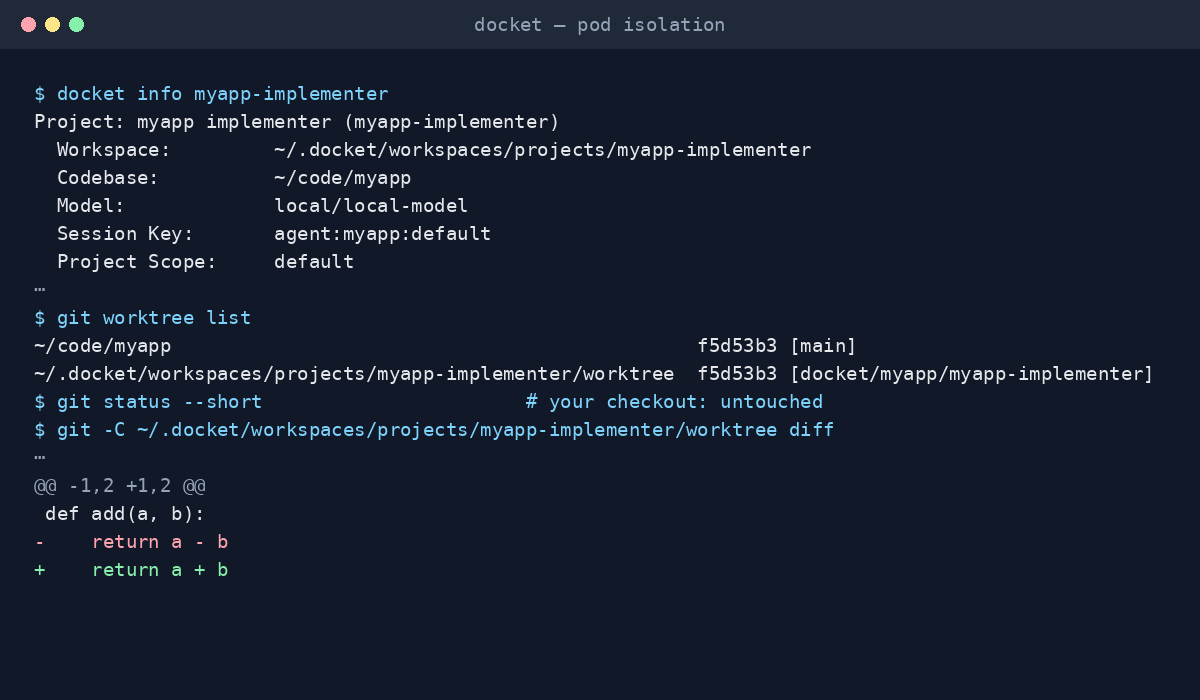
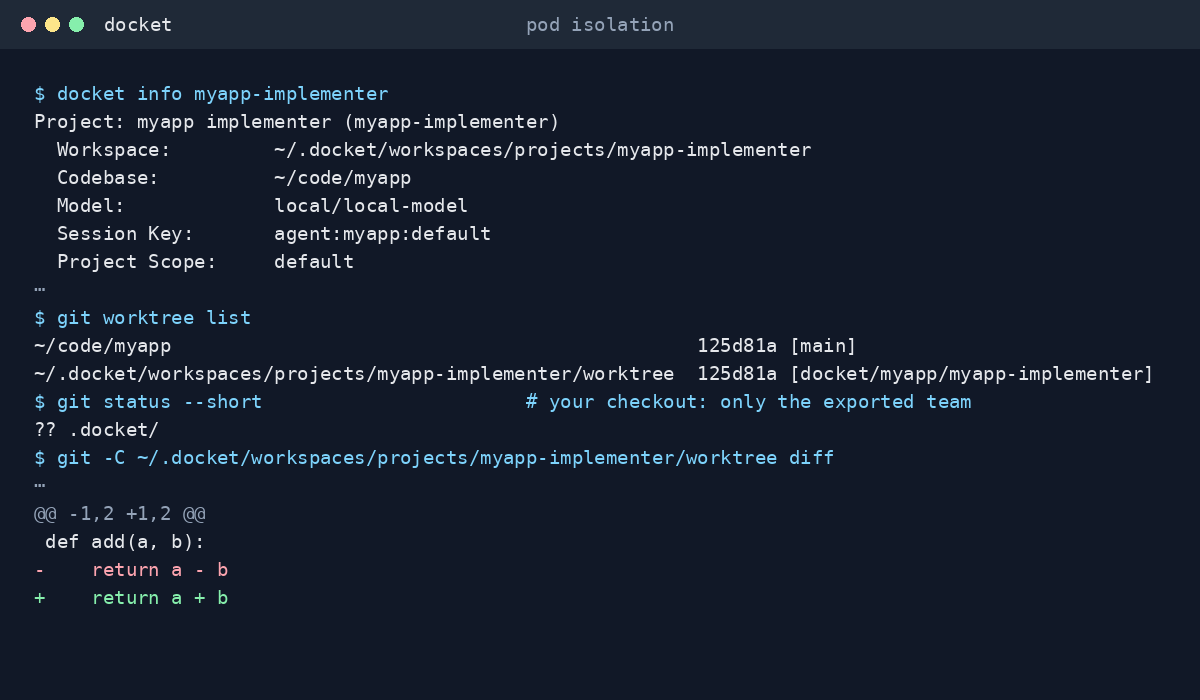
Docs: assets re-captured from one real run; the hero shows the team from the repo
scripts/maint/capture-doc-journey.sh gains the Phase 30 scenes: 1-team
(docket init --recipe secure-build, pod export, find .docket, validate,
pipeline plan, set-verify), 2-dispatch, 3-isolation, 4-gate, 5-record
(config explain, audit verify), 6-harness (captured, not rendered). The
run against the local llama.cpp endpoint on 2026-09-27 reached done in
3 hops with the vetter's APPROVE, denied the production push on
timeout, and verified 8 chained audit lines.

scripts/render-doc-assets.py transcribes that run: hero.gif is four
frames (the team you define; validate, plan, queue; the run; the
record), each titled, under a docket wordmark drawn in every title bar;
isolation.png and governance.png come from the same run. Path prefixes
outside the capture root are elided with the same mark as elided lines.
docs/assets/README.md records the capture. render-doc-assets.py --check
passes on the regenerated files.

diff --git a/scripts/render-doc-assets.py b/scripts/render-doc-assets.py
@@ -22,6 +22,7 @@ ASSET_DIR = ROOT / "docs" / "assets"
 OUTPUTS = ("hero.gif", "isolation.png", "governance.png")
 FONT_PATH = ASSET_DIR / "DejaVuSansMono.ttf"
 CONTRACT_KEY = "docket-render-contract"
+WORDMARK = "docket"
 
 WIDTH = 1200
 HEIGHT = 700
@@ -113,6 +114,8 @@ def _terminal(title: str, lines: list[str], *, height: int = HEIGHT) -> Image.Im
     draw.rectangle((0, 0, WIDTH, TITLE_HEIGHT), fill=TITLEBAR)
     for x, color in ((28, RED), (52, YELLOW), (76, GREEN)):
         draw.ellipse((x - 7, 17, x + 7, 31), fill=color)
+    # The wordmark sits left of the traffic lights' gap; the scene title stays centred.
+    draw.text((104, 13), WORDMARK, font=REGULAR, fill=TEXT)
     title_width = draw.textlength(title, font=REGULAR)
     draw.text(((WIDTH - title_width) / 2, 13), title, font=REGULAR, fill=MUTED)
 
@@ -126,48 +129,94 @@ def _terminal(title: str, lines: list[str], *, height: int = HEIGHT) -> Image.Im
 # Every scene below is a verbatim transcript of one real run of
 # scripts/maint/capture-doc-journey.sh; docs/assets/README.md records which run. Only
 # three edits are allowed when refreshing it: the capture root becomes "~", "⋯" marks elided
-# lines, and a trailing "# ..." on a "$" line is a reader's note, never captured output.
-_INIT = [
+# lines or path prefixes, and a trailing "# ..." on a "$" line is a reader's note, never
+# captured output.
+_TEAM = [
     "$ docket models preset local",
-    "⋯",
-    "✓ Preset 'local' applied.",
-    "⋯",
-    "✓ Registered local endpoint selected; no API key needed.",
-    "$ docket init",
-    "⋯",
-    "✓ Tool-call gate: always active (policy engine + high-risk command classifier)",
-    "✓ Installed 6 baseline policies",
+    "$ docket init --recipe secure-build",
     "⋯",
     "→ Provisioning 'software' pod 'myapp' (lead, implementer)...",
     "✓   myapp-lead  [lead]  local/local-model",
     "✓   myapp-implementer  [implementer]  local/local-model",
-    "$ docket pod myapp add reviewer",
-    "✓ Added myapp-reviewer [reviewer] local/local-model",
+    "Apply plan — myapp <- ⋯/templates/recipes/secure-build",
+    "  [add] role: security-vetter",
+    "  [add] policy: require-approval-secret-writes.yaml",
+    "  [add] member: security-vetter",
+    "  [add] pipeline: pipeline.yaml",
+    "✓ Applied 4 change(s) to pod 'myapp' from ⋯/templates/recipes/secure-build.",
+    "$ docket pod myapp export                  # the team, written back next to the code",
+    "✓ Exported pod 'myapp' to ~/code/myapp/.docket.",
+    "$ find .docket -type f | sort",
+    ".docket/pipeline.yaml",
+    ".docket/pod.yaml",
+    ".docket/policies/require-approval-secret-writes.yaml",
+    ".docket/roles/security-vetter.md",
+    ".docket/roles/security-vetter.yaml",
+]
+
+_PLAN = [
+    "$ docket validate                          # every file starts with kind:",
+    "ok ~/code/myapp/.docket/roles/security-vetter.yaml (role security-vetter)",
+    "ok ~/code/myapp/.docket/policies/require-approval-secret-writes.yaml "
+    "(policy secure-build-secret-writes)",
+    "ok ~/code/myapp/.docket/pipeline.yaml (pipeline secure-build)",
+    "ok ~/code/myapp/.docket/pod.yaml (pod myapp)",
+    "$ docket pipeline plan myapp",
+    "Pipeline plan — myapp",
+    "Source: bound pipeline (hash 45f7aaf31d1f...)",
+    "Pipeline: secure-build",
+    "  [plan] role=lead -> myapp-lead [gate: none]",
+    "  [build] role=implementer -> myapp-implementer [gate: mechanical(verifyCmd)]",
+    "  [vet] role=security-vetter -> myapp-security-vetter [gate: verdict(approve, rework->build)]",
     "$ docket pod myapp set-verify myapp-implementer \\",
     "    \"python3 -c 'import calc; assert calc.add(2, 3) == 5'\"",
     "✓ Set verify command for myapp-implementer: "
     "\"python3 -c 'import calc; assert calc.add(2, 3) == 5'\"",
+    '$ docket pod myapp delegate "Fix calc.add so it returns the sum of a and b"',
+    "✓ Queued for pod 'myapp': [task-efbd46e7-d7ce-4f7a-b787-d6c8abfd3cf6] Fix calc.add so it "
+    "returns the sum of a and b",
 ]
 
 _DISPATCH = [
-    '$ docket pod myapp delegate "Fix calc.add so it returns the sum of a and b"',
-    "✓ Queued for pod 'myapp': [task-992eeb02-6cef-422d-af5d-339f0511cfcd] Fix calc.add so it "
-    "returns the sum of a and b",
     "$ docket pod myapp dispatch",
-    "→ Dispatching 1 pending task(s) through: lead → implementer → reviewer",
-    "✓   [task-992eeb02-6cef-422d-af5d-339f0511cfcd] done — 3 hop(s), $0.0000",
-    "$ docket trace agent:myapp:task-992eeb02-6cef-422d-af5d-339f0511cfcd",
-    "  2026-09-18T13:02:18  session_start              (lead)",
+    "→ Dispatching 1 pending task(s) through: lead → implementer → security-vetter",
+    "✓   [task-efbd46e7-d7ce-4f7a-b787-d6c8abfd3cf6] done — 3 hop(s), $0.0000",
+    "$ docket trace agent:myapp:task-efbd46e7-d7ce-4f7a-b787-d6c8abfd3cf6",
+    "  2026-09-27T19:47:54  session_start              (lead)",
     "  ⋯",
-    "  2026-09-18T13:02:48  context_composed           (implementer)",
+    "  2026-09-27T19:48:19  tool_result                (lead)  text=## Plan for Implementer",
     "  ⋯",
-    "  2026-09-18T13:03:35  context_composed           (reviewer)",
+    "  2026-09-27T19:48:50  tool_result                (implementer)  text=The fix is complete. "
+    "I changed `calc.add` to return `a + b` instead of `a - b`. The verification gate passes",
     "  ⋯",
-    "  2026-09-18T13:04:41  tool_result                (reviewer)  text=I've reviewed the "
-    "implementation. The change is straightforward and correct:",
+    "  2026-09-27T19:49:07  tool_result                (security-vetter)  text=The `calc.py` "
+    "file now correctly implements `add` with `return a + b`.",
+    "⋯",
+    "- **Secrets:** No credentials or secrets in the file.",
     "⋯",
     "APPROVE",
-    "  2026-09-18T13:04:41  session_end                (lead)  status=done",
+    "  2026-09-27T19:49:07  session_end                (lead)  status=done",
+]
+
+_RECORD = [
+    "$ docket config explain myapp-implementer",
+    "Effective configuration — myapp-implementer",
+    "  Role:            implementer",
+    "  Pod:             myapp",
+    "  Model:           local/local-model  (policy)",
+    "  Endpoint:        http://127.0.0.1:8081/v1  (ready)",
+    "  Provider:        local  (global, openai-chat)",
+    "  Credential:      (none)  (none)",
+    "⋯",
+    "  Tools allowed: bash, edit, fetch, glob, grep, read, write",
+    "⋯",
+    "│ secure-build-secret-writes │ pre_tool_call │ require_approval │",
+    "⋯",
+    "  Pipeline:        bound pipeline (hash 45f7aaf31d1f...)",
+    "  Config source:   ⋯/templates/recipes/secure-build  (digest 441848f22bd2..., drift: no)",
+    "⋯",
+    "$ docket audit verify",
+    "✓ 8 chained line(s) verified clean.",
 ]
 
 _ISOLATION = [
@@ -180,10 +229,11 @@ _ISOLATION = [
     "  Project Scope:     default",
     "⋯",
     "$ git worktree list",
-    "~/code/myapp                                              f5d53b3 [main]",
-    "~/.docket/workspaces/projects/myapp-implementer/worktree  f5d53b3 "
+    "~/code/myapp                                              125d81a [main]",
+    "~/.docket/workspaces/projects/myapp-implementer/worktree  125d81a "
     "[docket/myapp/myapp-implementer]",
-    "$ git status --short                       # your checkout: untouched",
+    "$ git status --short                       # your checkout: only the exported team",
+    "?? .docket/",
     "$ git -C ~/.docket/workspaces/projects/myapp-implementer/worktree diff",
     "⋯",
     "@@ -1,2 +1,2 @@",
@@ -194,57 +244,31 @@ _ISOLATION = [
 
 _GATE = [
     "$ docket policies test pre_tool_call implementer 'git push origin production'",
-    "  Result: require_approval",
+    "  Result: ask",
+    "  Reason: matches high-risk action class 'prod-deploy': Production deploys and release pushes",
+    "  Policy: 'high-risk-deploy' -> require_approval",
     "$ docket pod myapp delegate \\",
     '    "Publish the fix: run exactly this bash command once and report its output: '
     'git push origin production"',
     "$ docket pod myapp dispatch",
-    "→ Dispatching 1 pending task(s) through: lead → implementer → reviewer",
-    "✓   [task-fdbcb619-28bd-4ad4-b174-6f0e68497d9d] done — 3 hop(s), $0.0000",
+    "→ Dispatching 1 pending task(s) through: lead → implementer → security-vetter",
+    "✓   [task-d4f97e63-0842-4c79-9e44-5e1df1318f8b] done — 3 hop(s), $0.0000",
     "$ docket audit",
     "  ⋯",
-    "  2026-09-18T13:05:15.720Z  demo        tool.ask          tool=bash agent=myapp-implementer "
-    "role=implementer project=myapp-implementer policy_id='high-risk-deploy' "
-    "policy_action='require_approval' ⋯",
-    "  2026-09-18T13:07:15.781Z  demo        approval.deny     "
-    "token=apr-e3d11049-8601-4011-8e9e-46c5e98bb53e project=myapp-implementer channel=timeout",
-    "$ docket trace export myapp | grep '\"deny\"'",
-    '{⋯ "agent_role": "implementer", "event_type": "tool_result", "payload": {"tool": "bash", '
-    '"callId": "c02cuhNC56eQZyNGRL8RLeKSN1pnWKwX", "decision": "deny", "ok": false, '
-    '"executed": false, "denialKind": "approval_timeout", "policyId": "high-risk-deploy", '
-    '"reason": "approval timed out and was denied"}}',
+    "  2026-09-27T19:49:30.146Z  demo        tool.ask          tool=bash agent=myapp-implementer "
+    "role=implementer project=myapp policy_id='high-risk-deploy' policy_action='require_approval' ⋯",
+    "  2026-09-27T19:51:30.180Z  demo        approval.deny     "
+    "token=apr-e480b929-4092-47c7-a541-4137f438098d project=myapp channel=timeout",
     "$ docket audit verify",
-    "✓ 6 chained line(s) verified clean.",
+    "✓ 8 chained line(s) verified clean.",
 ]
 
-_HARNESS = [
-    "$ export DOCKET_HOME=~/hh DOCKET_LLM_BASE_URL=http://127.0.0.1:8081/v1",
-    "$ docket harness run --workspace ~/code/svc --model local/local-model \\",
-    "    --task 'Run exactly this bash command: git push origin production' \\",
-    "    2>/dev/null | tail -1 | python3 -m json.tool",
-    "{",
-    '    "v": "1.0.0",',
-    '    "token": "run-824ce693-1c71-4333-b781-2ffe641329ea",',
-    '    "status": "blocked",',
-    "    ⋯",
-    '    "blocked": {',
-    '        "tool": "bash",',
-    '        "call_id": "6Kd4UFWbyWfEfzTwkXwD9boT47aFZRiN",',
-    '        "denial_kind": "approval_unavailable",',
-    '        "policy_id": "",',
-    '        "reason": "matches high-risk action class \'prod-deploy\': Production deploys and '
-    'release pushes"',
-    "    },",
-    "    ⋯",
-    '    "run_state": "failed"',
-    "}",
-]
+
+_HERO_TITLES = ("the team you define", "validate, plan, queue", "the run", "the record")
 
 
 def _hero_scenes() -> list[list[str]]:
-    trace_export = _GATE.index("$ docket trace export myapp | grep '\"deny\"'")
-    gate = _GATE[:trace_export] + _GATE[trace_export + 2 :]
-    return [_INIT, _DISPATCH, gate, _HARNESS]
+    return [_TEAM, _PLAN, _DISPATCH, _RECORD]
 
 
 def _render_contract() -> str:
@@ -259,14 +283,16 @@ def _write_assets(target: Path) -> None:
     contract = _render_contract()
     png_info = PngInfo()
     png_info.add_text(CONTRACT_KEY, contract)
-    _terminal("docket — pod isolation", _ISOLATION, height=_fit_height(_ISOLATION)).save(
+    _terminal("pod isolation", _ISOLATION, height=_fit_height(_ISOLATION)).save(
         target / "isolation.png", optimize=True, pnginfo=png_info
     )
-    _terminal("docket — the tool-call gate", _GATE, height=_fit_height(_GATE)).save(
+    _terminal("the tool-call gate", _GATE, height=_fit_height(_GATE)).save(
         target / "governance.png", optimize=True, pnginfo=png_info
     )
 
-    frames = [_terminal("docket — govern agent work", scene) for scene in _hero_scenes()]
+    frames = [
+        _terminal(title, scene) for title, scene in zip(_HERO_TITLES, _hero_scenes(), strict=True)
+    ]
     frames[0].save(
         target / "hero.gif",
         save_all=True,

diff --git a/docs/assets/README.md b/docs/assets/README.md
@@ -6,8 +6,8 @@ real run; there are no terminal screenshots and no invented output.
 
 | File | Purpose | Captured scene | Used in |
 | --- | --- | --- | --- |
-| `hero.gif` | Four frames: provision a pod, dispatch a fix with a verify gate and reviewer, stop a production push, refuse it in harness mode | `1-init`, `2-dispatch`, `4-gate`, `5-harness` | Root README and docs index |
-| `isolation.png` | The Implementer's own workspace and git worktree; the operator's checkout stays clean | `3-isolation` | Root README |
+| `hero.gif` | Four frames: provision the team from a shipped recipe and write it back to `.docket/`; validate, plan and queue; dispatch to `done` through Lead, Implementer and the read-only vetter's `APPROVE`; the record (`config explain` with the team's source and `audit verify`) | `1-team`, `2-dispatch`, `5-record` | Root README and docs index |
+| `isolation.png` | The Implementer's own workspace and git worktree; the operator's checkout holds only the exported team | `3-isolation` | Root README |
 | `governance.png` | A high-risk `bash` call held for approval, denied on timeout without executing, and the audit chain verified | `4-gate` | Root README |
 
 The renderer uses the vendored `DejaVuSansMono.ttf` so glyphs and layout do not depend on host font
@@ -22,7 +22,7 @@ real CLI through every scene against a live OpenAI-compatible endpoint (default
 capture root rendered as `~`. It takes about five minutes because the gate scene waits out the
 120-second approval timeout. A local model's output varies run to run, so copy what the new run
 actually printed into the scene lists in the renderer: elide with `⋯`, never reword or invent a
-line. The current scenes were captured on 2026-09-18 against a local 16k-context model.
+line. The current scenes were captured on 2026-09-27 against a local 16k-context model (the `6-harness` transcript is captured but not rendered).
 
 ## Regenerate and verify
 
